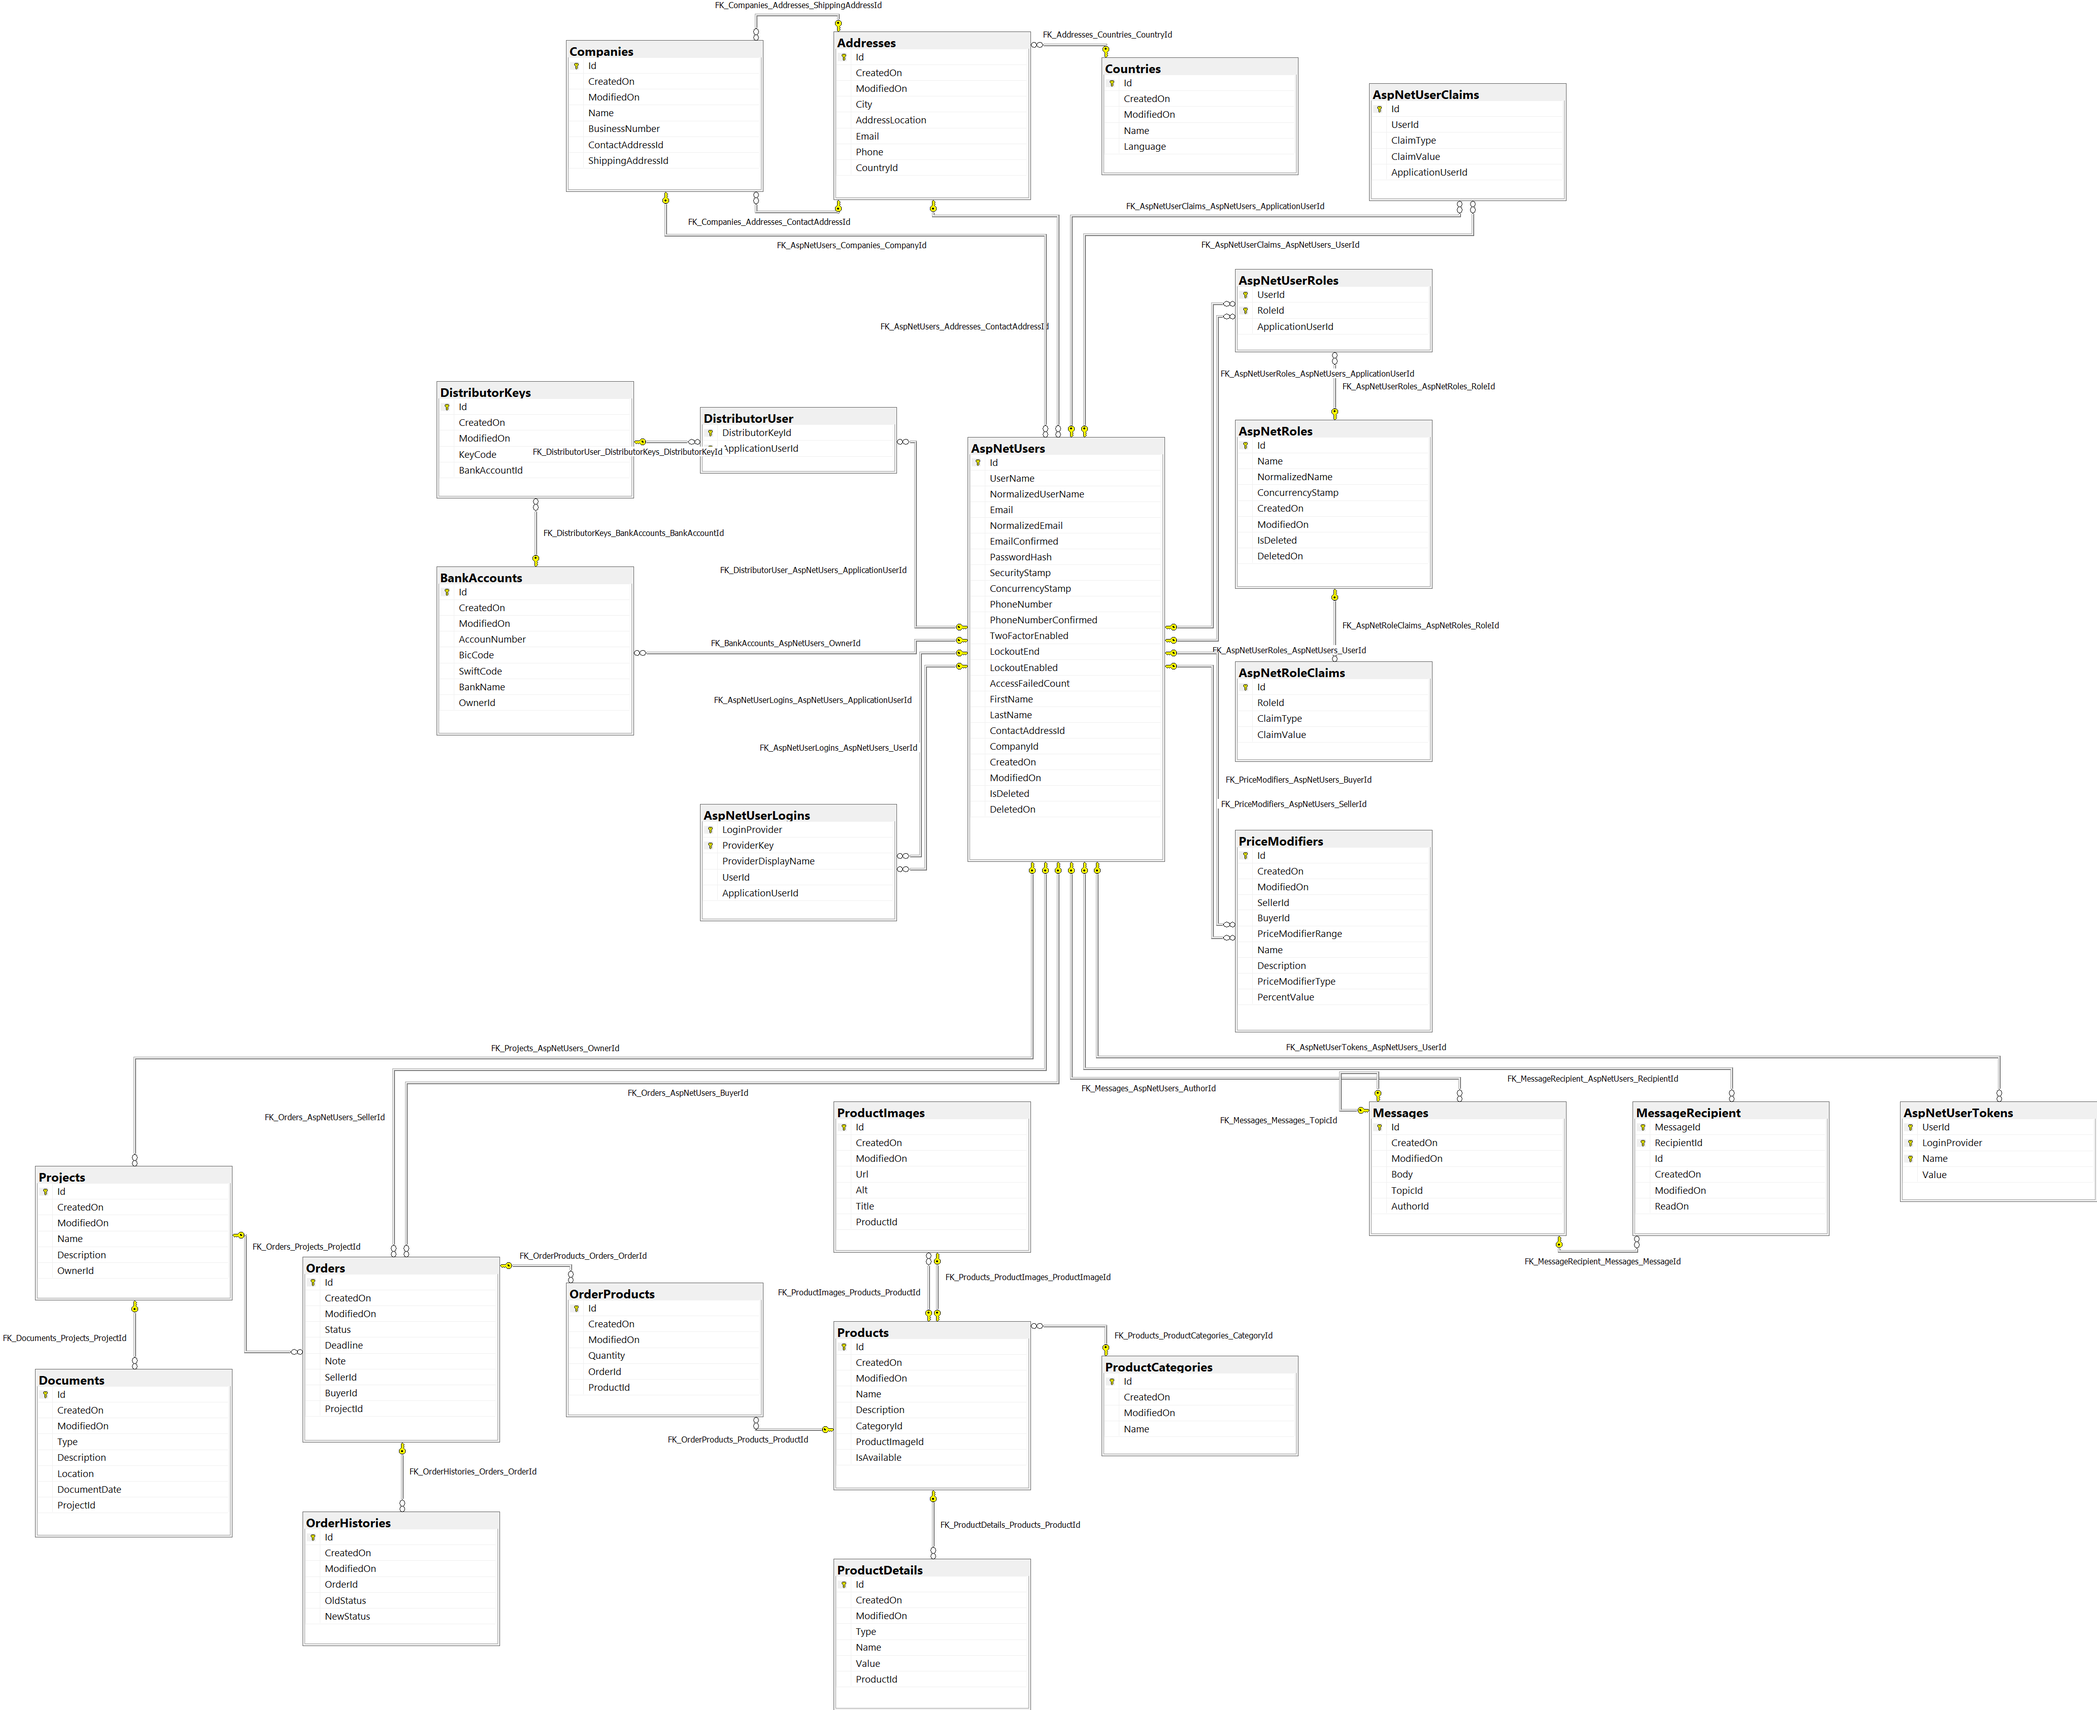
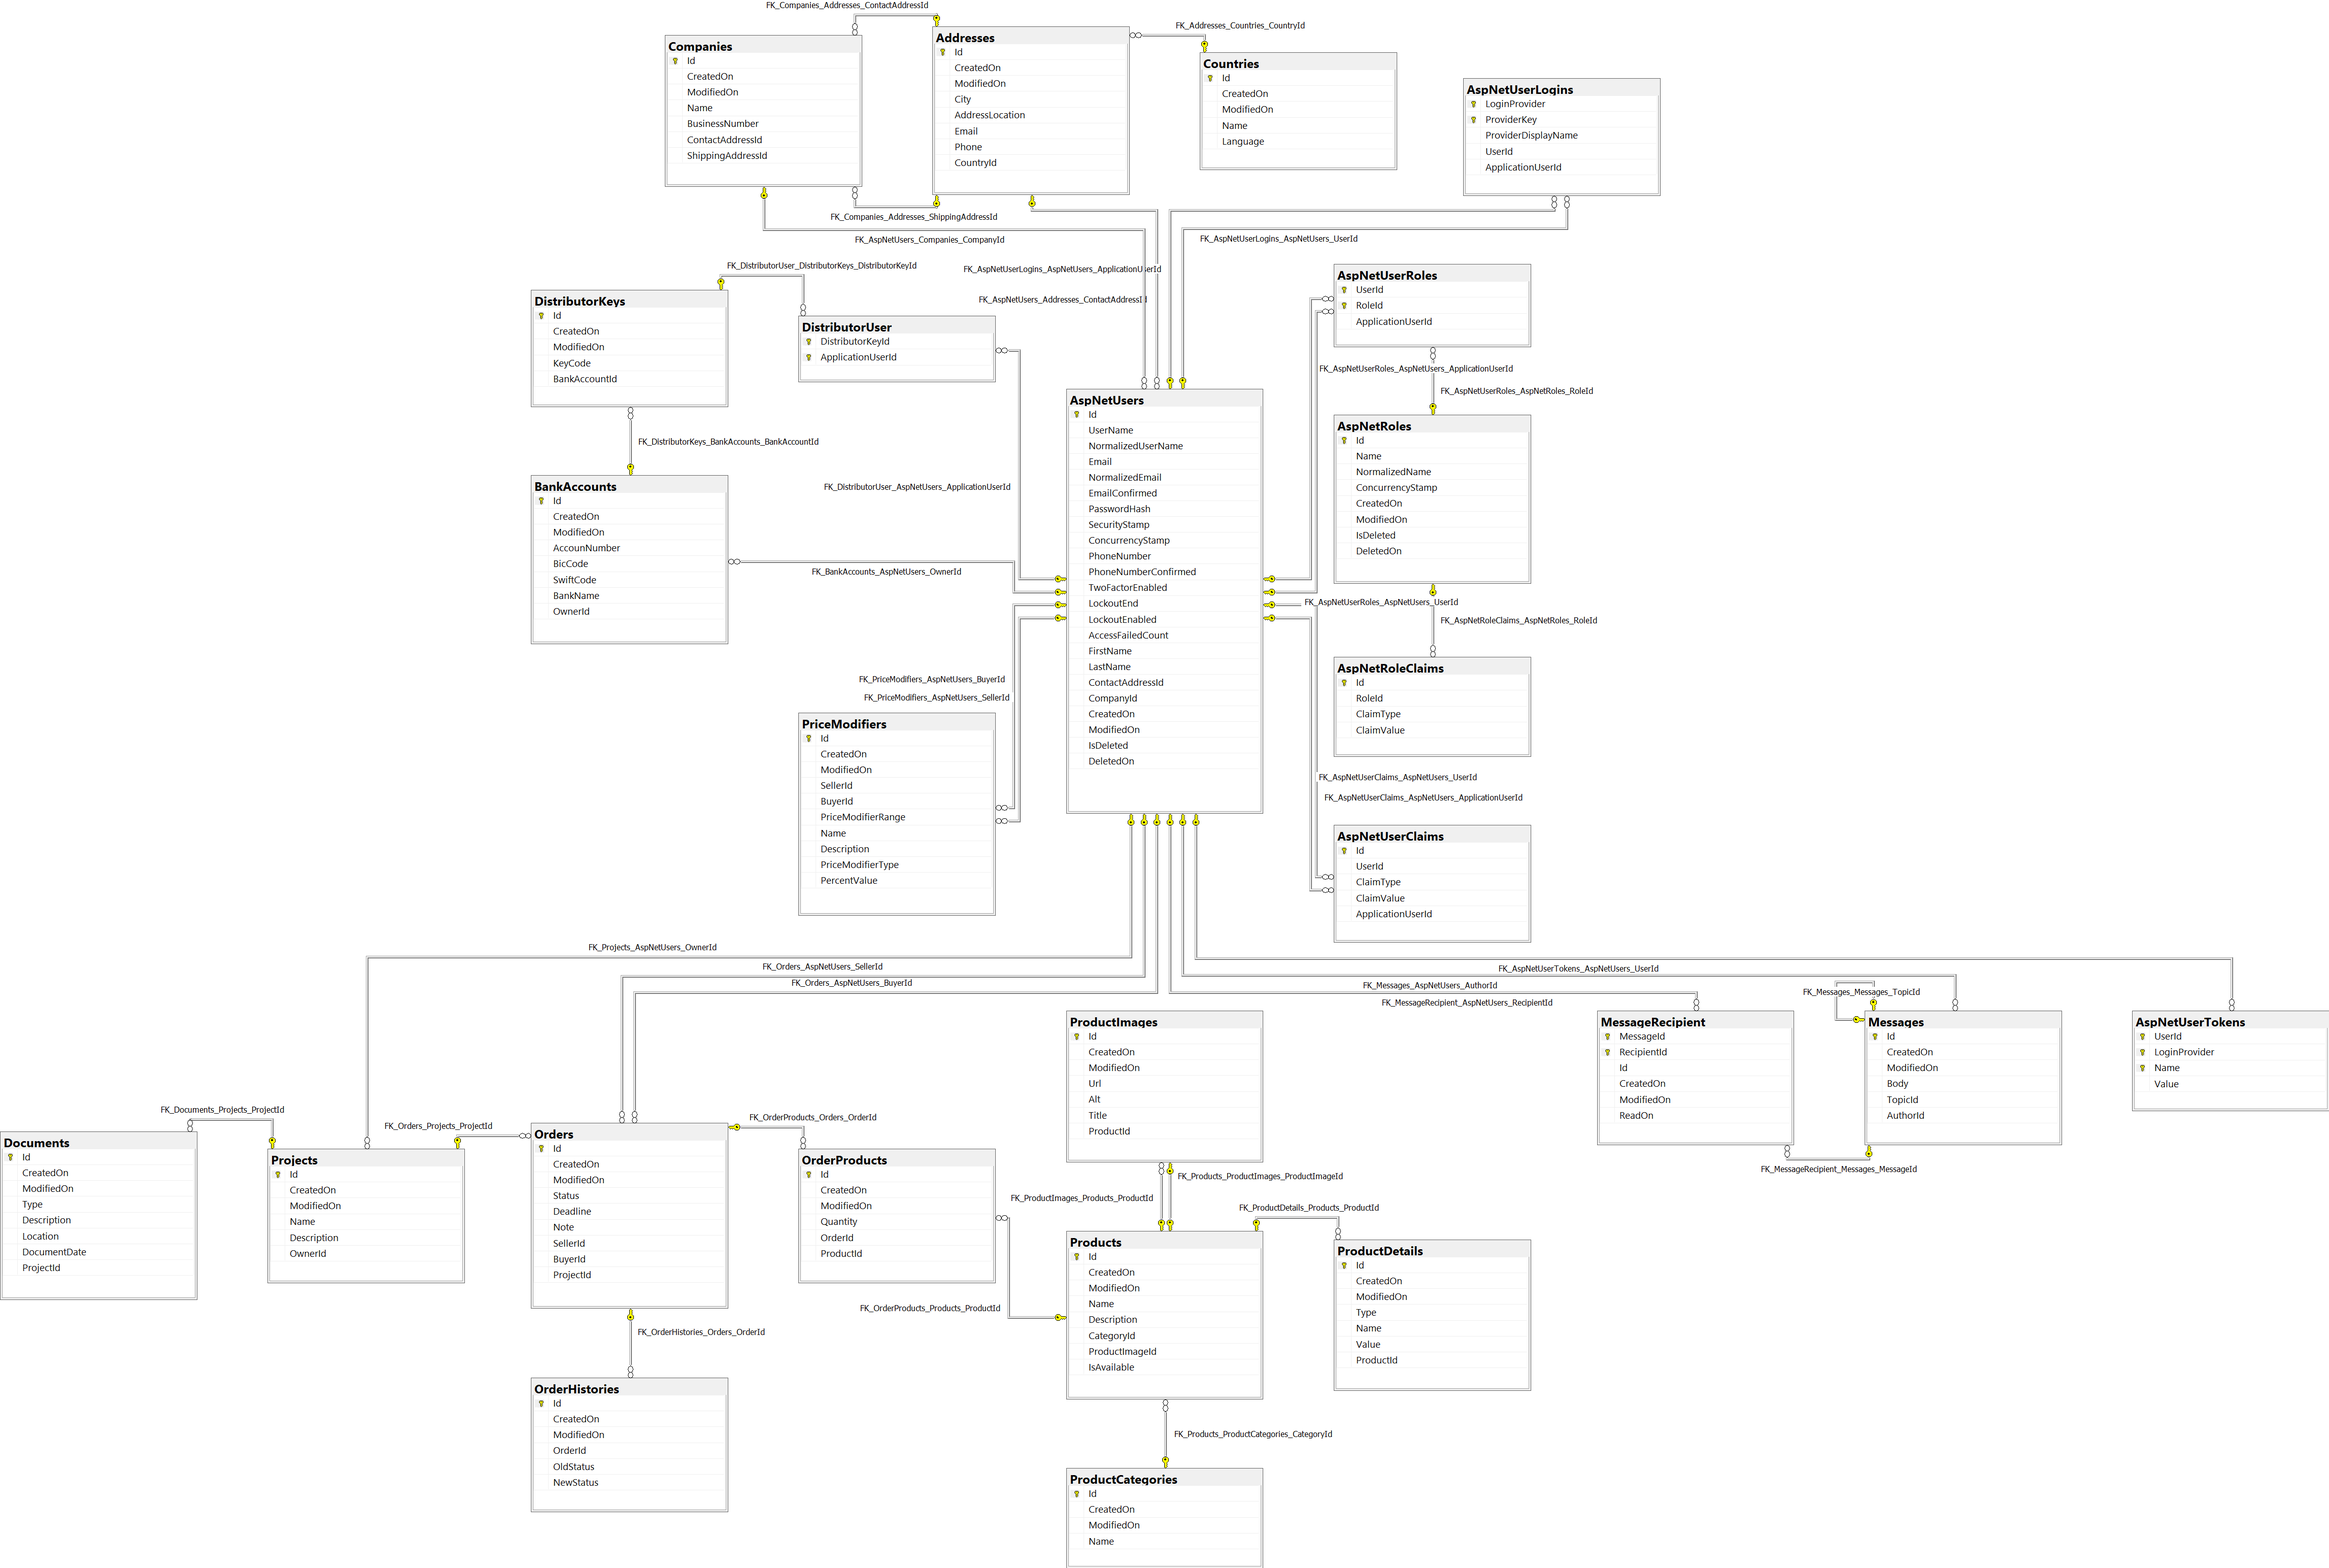
Update database diagram

diff --git a/VxpIdea.md b/VxpIdea.md
@@ -203,12 +203,20 @@ The smaller modifier range has a bigger priority.
 ### MessageRecipient
 
 - Message (Message) [key]
+
 - Recipient (User) [key]
+
 - ReadOn (DateTime)
 
+  
+
+[VXP Project Repository](https://github.com/TsvetanRaykov/SoftUniAspDotNetCoreMvc "Github repository of the project")
+
+[VXP Database Model](https://github.com/TsvetanRaykov/SoftUniAspDotNetCoreMvc/blob/master/VxpDatabase.png?raw=true "Database diagram 4589x3089")
 
 
-[VXP Database Diagram](https://drive.google.com/file/d/1QI3JmO1xsP_0wIktFimKgReohj-A0jiw/view?usp=sharing "Raykov's google drive")
 
 
+
+![VXP Database Model](https://github.com/TsvetanRaykov/SoftUniAspDotNetCoreMvc/blob/master/VxpDatabase.png?raw=true)
 
